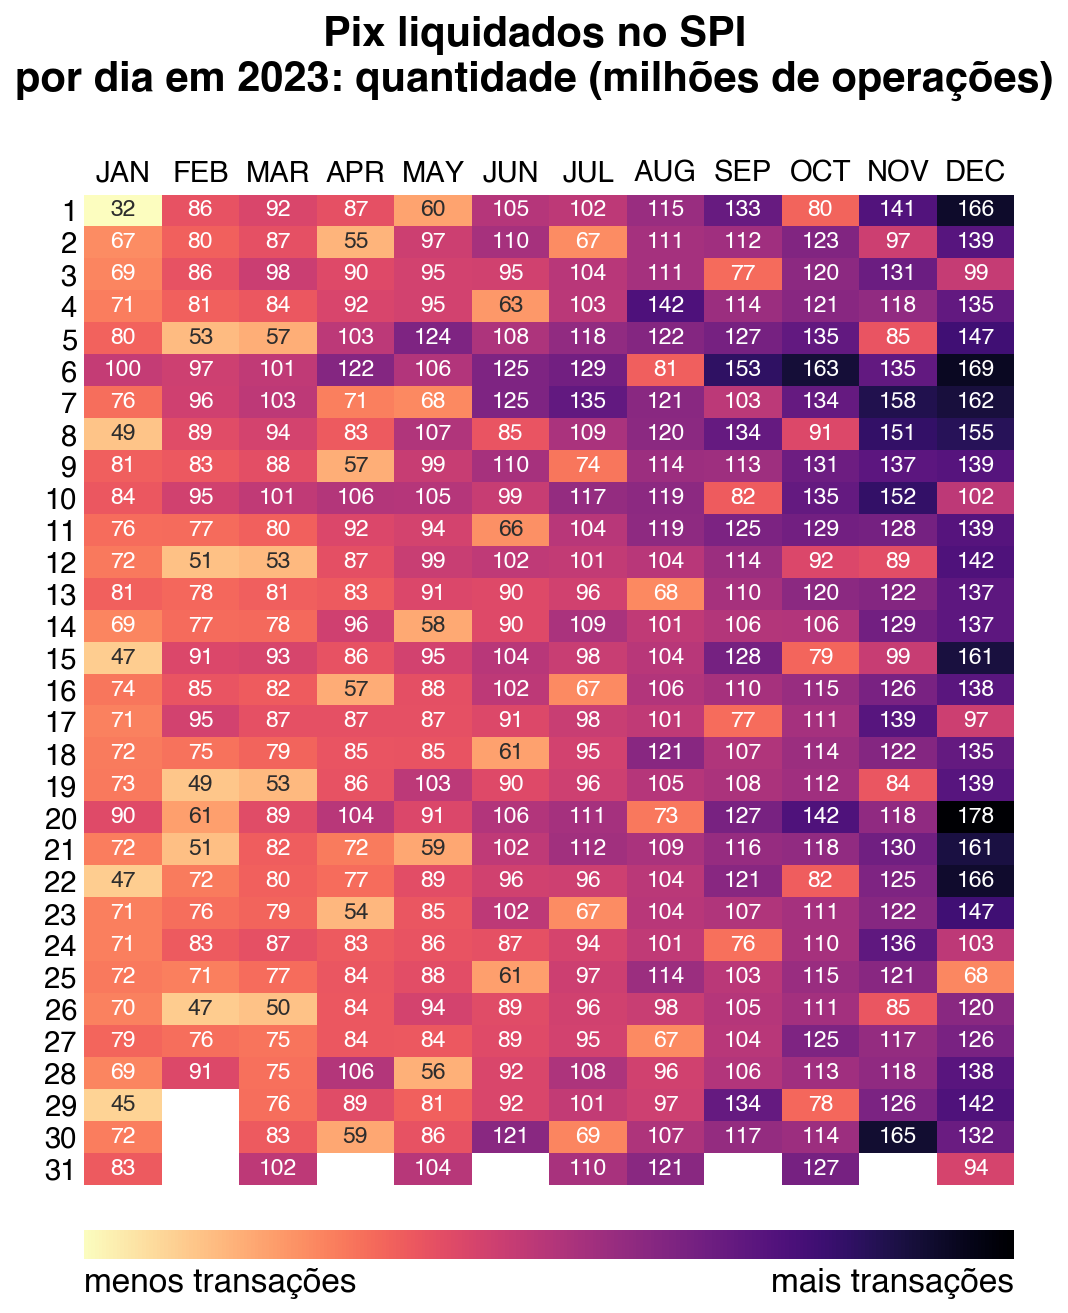
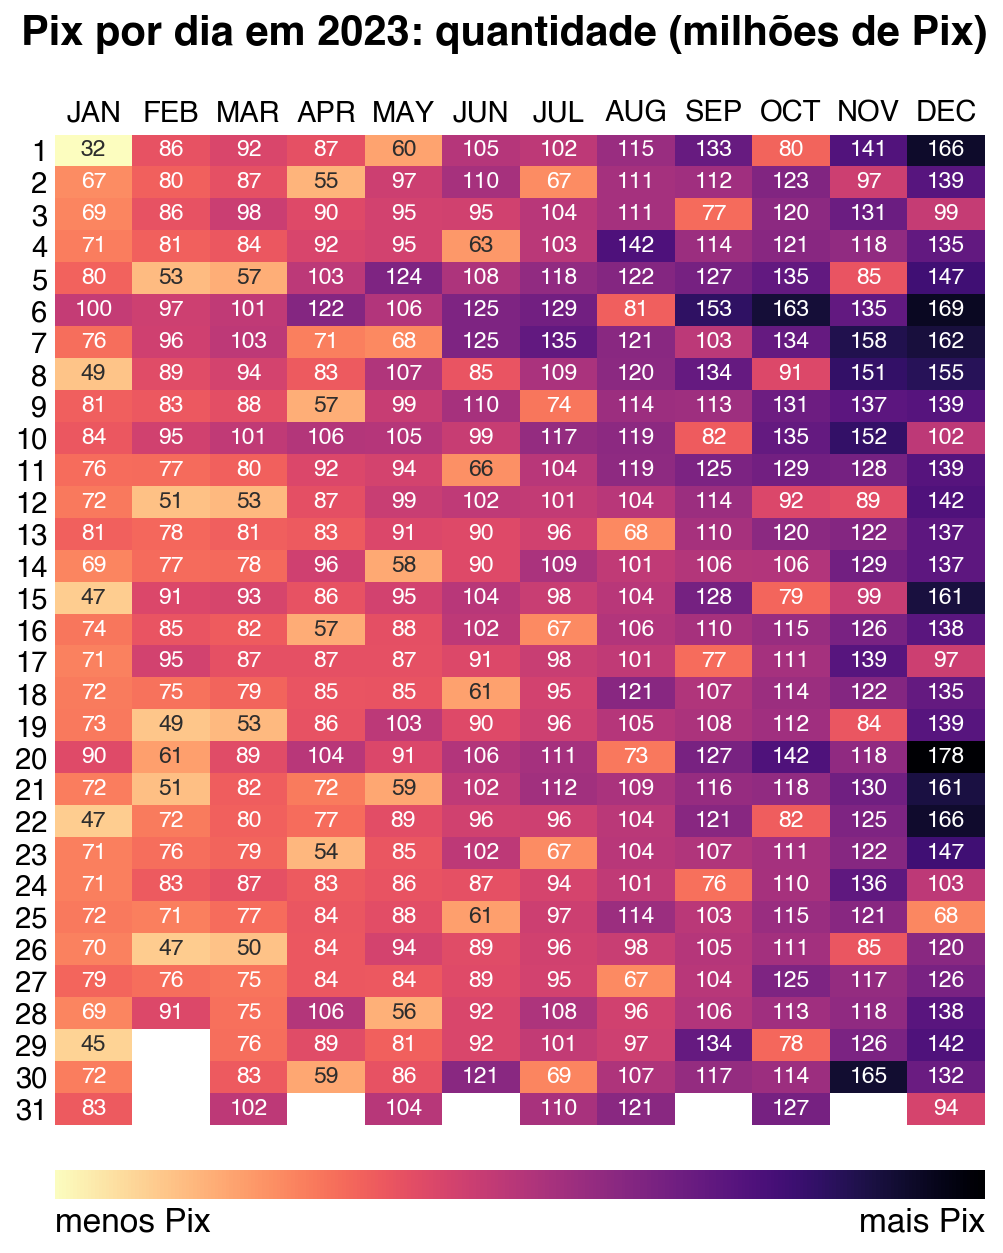
improving plots

diff --git a/daily_heatmap.py b/daily_heatmap.py
@@ -58,8 +58,8 @@ if metric == "value":
 else:
     vals = sub["Quantidade"]
     div = 1e6
-    noun = "quantidade (milhões de operações)"
-    lo, hi = "menos transações", "mais transações"
+    noun = "quantidade (milhões de Pix)"
+    lo, hi = "menos Pix", "mais Pix"
     fname = f"pix_daily_heatmap_{YEAR}.png"
 
 matrix = np.full((31, 12), np.nan)
@@ -108,8 +108,8 @@ label_y = grad_bottom - 0.005
 fig.text(bbox.x0, label_y, lo, ha="left", va="top", fontsize=16)
 fig.text(bbox.x1, label_y, hi, ha="right", va="top", fontsize=16)
 
-fig.suptitle(f"Pix liquidados no SPI\npor dia em {YEAR}: {noun}",
-             fontsize=20, y=0.96, fontweight="bold")
+fig.suptitle(f"Pix por dia em {YEAR}: {noun}",
+             fontsize=20, fontweight="bold", y=0.92)
 
 out_path = HERE / "output" / fname
 out_path.parent.mkdir(parents=True, exist_ok=True)

diff --git a/README.md b/README.md
@@ -1,14 +1,14 @@
-# Pix liquidados no SPI — mapa de calor diário
+# Pix por dia: mapa de calor diário
 
-Mapa de calor (heatmap) com o volume de Pix liquidados no SPI, um para cada
-ano: cada célula é um dia do ano (eixo X = mês, eixo Y = dia do mês), colorida
-pela quantidade ou pelo valor.
+Mapa de calor (heatmap) com o número (ou o valor) de Pix por dia, um para
+cada ano: cada célula é um dia do ano (eixo X = mês, eixo Y = dia do mês),
+colorida pela quantidade ou pelo valor.
 
 ## O que gera
 
 Em `output/`:
-- `pix_daily_heatmap_<ano>.png` — **quantidade** de operações por dia.
-- `pix_daily_heatmap_value_<ano>.png` — **valor** (R$) por dia.
+- `pix_daily_heatmap_<ano>.png`: **quantidade** de Pix por dia.
+- `pix_daily_heatmap_value_<ano>.png`: **valor** (R$) por dia.
 
 ## Como rodar
 
@@ -25,8 +25,11 @@ python daily_heatmap.py 2025 value # valor (R$)
 limpeza). Colunas: `Data, Quantidade, CanalPrimario, CanalSecundario, Total,
 Media`.
 
-Observação de unidade: a coluna `Total` vem em **milhares de R$** — o script
+Observação de unidade: a coluna `Total` vem em **milhares de R$** e o script
 multiplica por 1000 para exibir em R$.
+
+Os números são do Pix liquidado entre instituições diferentes (não incluem as
+transferências dentro do mesmo banco).
 
 ## Como o dado foi baixado (para auditar)
 
@@ -34,12 +37,8 @@ multiplica por 1000 para exibir em R$.
 python download_data.py
 ```
 
-Endpoint (BCB — Estatísticas do SPI, Olinda OData v1):
+Endpoint (BCB, Olinda OData v1):
 
 ```
 https://olinda.bcb.gov.br/olinda/servico/SPI/versao/v1/odata/PixLiquidadosAtual?$format=json&$top=200000
 ```
-
-É um *entity set* simples (uma única requisição). O recurso traz o Pix
-**liquidado no SPI** por dia (não inclui transações "on-us", liquidadas dentro
-do próprio participante).
